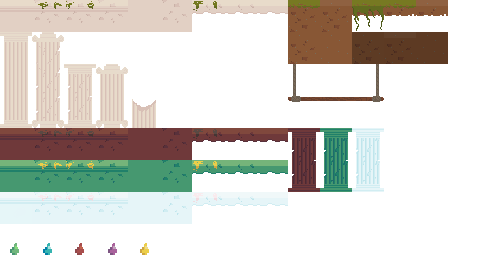
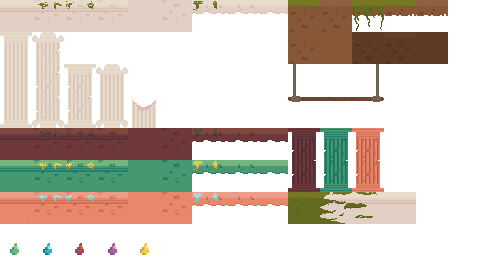
hub finish

Changed region(s): [[0.0, 0.4741, 0.875, 0.8296]]

diff --git a/Main/TORPOT/src/level/levels/LevelHub.cs b/Main/TORPOT/src/level/levels/LevelHub.cs
@@ -9,6 +9,8 @@ using System.Threading.Tasks;
 using TORPOT.src.level.entities.living;
 using TORPOT.src.level.entities.particles;
 using TORPOT.src.utils.gui;
+using Microsoft.Xna.Framework.Graphics;
+using System.Diagnostics;
 
 namespace TORPOT.level.Levels
 {
@@ -18,25 +20,56 @@ namespace TORPOT.level.Levels
         public LevelHub(ResourceManager resources) : base(resources)
         {
 
-            LoadLevel("Content/levels/LevelHub.txt", "Content/levels/LevelHub2.txt");
-           
-            AddEntity(new EntityPlayer(0, 0));
+            LoadLevel("Content/levels/world map v2._interaktiv.txt", "Content/levels/world map v2._overlay.txt");
+
+            AddEntity(new EntityPlayer(1500, 1200));
         }
 
         public override void Update(GameTime gameTime)
         {
-            //if(GetPlayer().GetX() == )
+            if (GetPlayer().GetX() > 34 && GetPlayer().GetX() < 74 && GetPlayer().GetY() > 1200)
+            {
+                if (InputHandler.interactDoor)
+                {
+                    Game.state = Game.STATE.Levellava;
+                }
+            }
+            else if (GetPlayer().GetX() > 112 && GetPlayer().GetX() < 142 && GetPlayer().GetY() > 800 && GetPlayer().GetY() < 1000)
+            {
+                if (InputHandler.interactDoor)
+                {
+                    Game.state = Game.STATE.Levelforest;
+                }
+            }
+            //else if (GetPlayer().GetX() > 1570 && GetPlayer().GetX() < 1615 && GetPlayer().GetY() > 600 && GetPlayer().GetY() > 800)
             //{
             //    if (InputHandler.interactDoor)
             //    {
-            //        Game.state = Game.STATE.Levelhub;
-            //        //Game.SwitchLevel(new LevelHub(resourceManager));
+            //        Game.state = Game.STATE.Levelmoln;
             //    }
             //}
+            else if (GetPlayer().GetX() > 1765 && GetPlayer().GetX() < 1810 && GetPlayer().GetY() > 1200)
+            {
+                if (InputHandler.interactDoor)
+                {
+                    Game.state = Game.STATE.Levelwater;
+                }
+            }
+
+            //Debug.Write("x=");
+            //Debug.WriteLine(GetPlayer().GetX());
+            //Debug.Write("y=");
+            //Debug.WriteLine(GetPlayer().GetY());
 
             base.Update(gameTime);
             //AddEntity(new ParticleTest(100, rdn.Next(100, 200)));
-            AddEntity(new ParticleTest(GetPlayer().GetX(), GetPlayer().GetY()));
+            //AddEntity(new ParticleTest(GetPlayer().GetX(), GetPlayer().GetY()));
+        }
+
+        public override void Draw(SpriteBatch batch, SpriteBatch hudBatch)
+        {
+            base.Draw(batch, hudBatch);
+            batch.Draw(resourceManager.images.GetImage("worldmap"), new Vector2(0, 0), Color.White);
         }
     }
 }

diff --git a/Main/TORPOT/src/utils/ResourceManager.cs b/Main/TORPOT/src/utils/ResourceManager.cs
@@ -35,6 +35,7 @@ namespace Svennebanan
             images.AddImage("shell", content.Load<Texture2D>("shell"));
 
             images.AddImage("testParticle", content.Load<Texture2D>("testParticle"));
+            images.AddImage("worldmap", content.Load<Texture2D>("world map"));
 
 
             images.AddImage("projectile", content.Load<Texture2D>("projectile"));
@@ -139,7 +140,10 @@ namespace Svennebanan
             tiles.AddTile(new Tile(6, 6, new Rectangle(0, 0, 32, 32), true));
             tiles.AddTile(new Tile(7, 6, new Rectangle(0, 0, 32, 32), true));
             tiles.AddTile(new Tile(8, 6, new Rectangle(0, 0, 32, 32), true));
-
+            tiles.AddTile(new Tile(9, 6, new Rectangle(0, 0, 32, 32), true));
+            tiles.AddTile(new Tile(10, 6, new Rectangle(0, 0, 32, 32), true));
+            tiles.AddTile(new Tile(11, 6, new Rectangle(0, 0, 32, 32), true));
+            tiles.AddTile(new Tile(12, 6, new Rectangle(0, 0, 32, 32), true));
 
 
 

diff --git a/Main/TORPOT/Game.cs b/Main/TORPOT/Game.cs
@@ -41,7 +41,7 @@ namespace TORPOT
             Game, Menu, Quit, Levelhub, Levelone, Leveltwo, Levelwater, Levellava, Levelforest
         };
 
-        public static STATE state = STATE.Menu;
+        public static STATE state;
        
 
         public Game()
@@ -74,7 +74,7 @@ namespace TORPOT
             levelLava = new LevelLava(resources);
             levelForest = new LevelForest(resources);
             mainMenu = new MainMenu(resources, new Vector2(), levelHub);
-            state = STATE.Levellava;
+            state = STATE.Levelhub;
 
             if(state == STATE.Levelhub)
             {

diff --git a/Main/TORPOT/src/utils/InputHandler.cs b/Main/TORPOT/src/utils/InputHandler.cs
@@ -29,7 +29,7 @@ namespace Svennebanan
         {
             GamePadCapabilities capabilities = GamePad.GetCapabilities(PlayerIndex.One);
 
-            if (Keyboard.GetState().IsKeyDown(Keys.K))
+            if (Keyboard.GetState().IsKeyDown(Keys.Enter))
             {
                 interactDoor = true;
             }

diff --git a/Main/TORPOT/src/level/Level.cs b/Main/TORPOT/src/level/Level.cs
@@ -72,7 +72,7 @@ namespace TORPOT.level
             return null;
         }
 
-        public void Draw(SpriteBatch batch, SpriteBatch hudBatch)
+        public virtual void Draw(SpriteBatch batch, SpriteBatch hudBatch)
         {
             foreach (Tile t in tiles)
             {
